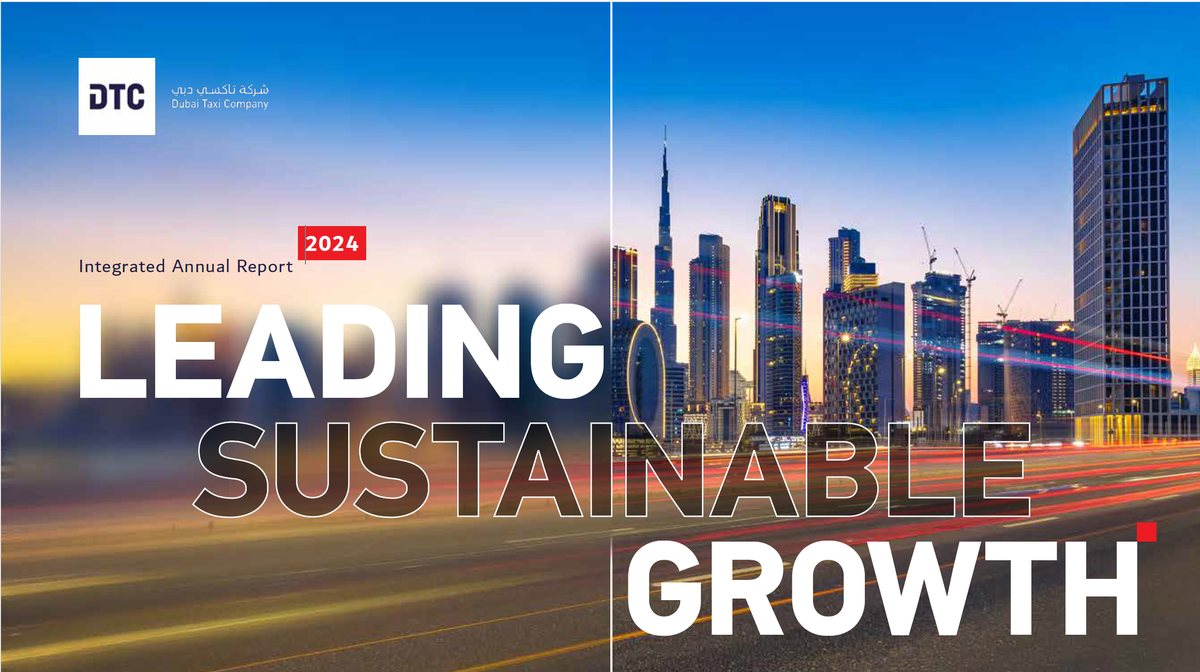
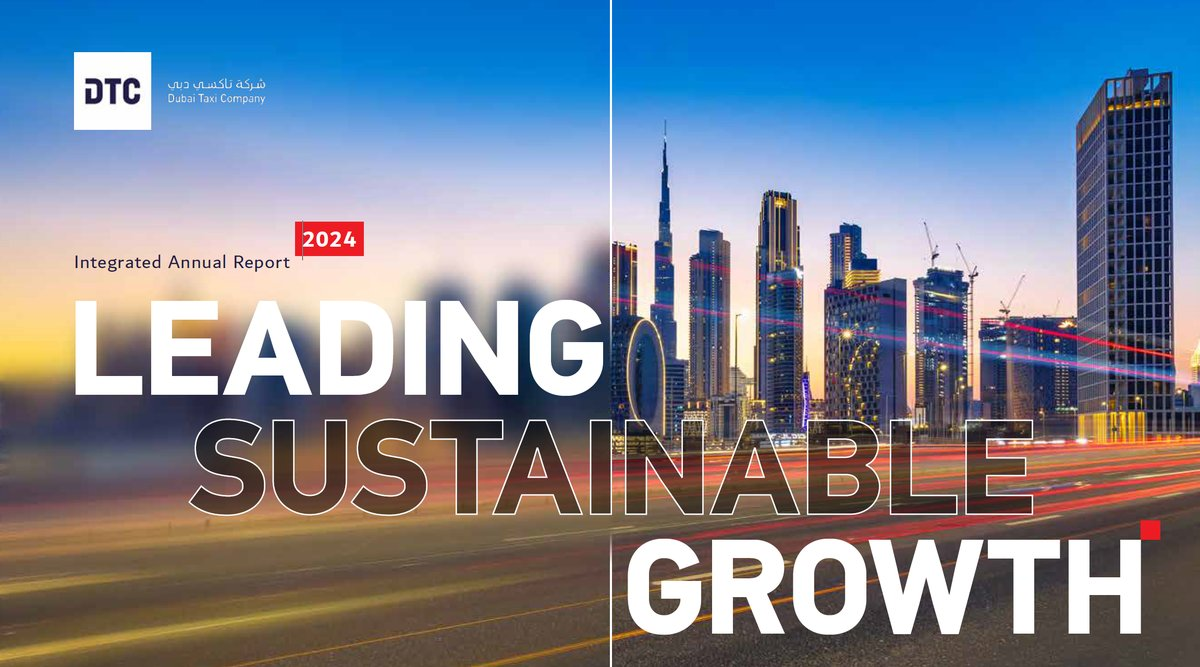
Tidy cover crops, replace examples, add custom domain
Trim borders and rounded corners from cover screenshots, replace Recent
examples with a recognised reports rail, add CNAME for frissonwriting.com.

Claude-Session: https://claude.ai/code/session_01BsDjxSa37LYHHWKHvRsRWJ

diff --git a/projects.html b/projects.html
@@ -33,7 +33,7 @@
 <button type="button" data-f="sustainability" aria-pressed="false">Sustainability reports</button>
 <button type="button" data-f="other" aria-pressed="false">Other</button>
 </div>
-<div class="grid" id="grid"><article class="card is-wide" data-kind="annual recognised"><div class="slot"><div class="frame has-img wide" style="aspect-ratio:1200/672"><img src="assets/covers/dtc-ar24.jpg" width="1200" height="672" loading="lazy" alt="Cover of the Dubai Taxi Company Annual Report 2024"></div></div><h3>Dubai Taxi Company</h3><p class="sub">Annual Report 2024<br>DFM</p><p class="role">Content development and consultancy. Delivered while at Fanda.</p><div class="awards"><span class="award ">Grand Award, ARC Awards 2025</span><span class="award ">Gold, Corporate &amp; Financial Awards 2025</span></div><a class="link" href="https://feeds.dfm.ae/documents/2025/Mar/7/73743a5a-cc45-4a22-98a8-bd352ffc6a1a/DTC%20Integrated%20Repor.pdf" target="_blank" rel="noopener">View the report<span class="sr"> for Dubai Taxi Company Annual Report 2024 (opens in a new tab)</span></a></article><article class="card" data-kind="annual recognised"><div class="frame has-img"><img src="assets/covers/oqep-ar25.jpg" width="800" height="1140" loading="lazy" alt="Cover of the OQ Exploration and Production Annual Report 2025"></div><h3>OQ Exploration and Production</h3><p class="sub">Annual Report 2025<br>MSX</p><p class="role">Content development and consultancy. Delivered while at Fanda.</p><div class="awards"><span class="award ">Grand Award, ARC Awards 2026</span></div></article><article class="card is-wide" data-kind="annual recognised"><div class="slot"><div class="frame has-img wide" style="aspect-ratio:900/502"><img src="assets/covers/dtc-ar25.jpg" width="900" height="502" loading="lazy" alt="Cover of the Dubai Taxi Company Annual Report 2025"></div></div><h3>Dubai Taxi Company</h3><p class="sub">Annual Report 2025<br>DFM</p><p class="role">Content development and consultancy. Delivered while at Fanda.</p><div class="awards"><span class="award ">Silver, ARC Awards 2026</span><span class="award short">Shortlisted, Corporate &amp; Financial Awards 2026</span></div><a class="link" href="https://ar2025.dubaitaxi.ae/en" target="_blank" rel="noopener">View the report<span class="sr"> for Dubai Taxi Company Annual Report 2025 (opens in a new tab)</span></a></article><article class="card is-wide" data-kind="annual recognised"><div class="slot"><div class="frame has-img wide" style="aspect-ratio:1200/672"><img src="assets/covers/burjeel-ar25.jpg" width="1200" height="672" loading="lazy" alt="Cover of the Burjeel Holdings Annual Report 2025"></div></div><h3>Burjeel Holdings</h3><p class="sub">Annual Report 2025<br>ADX</p><p class="role">Content development and consultancy. Delivered while at Fanda.</p><div class="awards"><span class="award short">Shortlisted, Corporate &amp; Financial Awards 2026</span></div><a class="link" href="https://burjeelholdings.com/wp-content/uploads/2026/03/BH-2025-Annual-Report-ENG.pdf" target="_blank" rel="noopener">View the report<span class="sr"> for Burjeel Holdings Annual Report 2025 (opens in a new tab)</span></a></article><article class="card" data-kind="annual"><div class="frame has-img"><img src="assets/covers/luberef-ar25.jpg" width="782" height="1119" loading="lazy" alt="Cover of the Luberef Annual Report 2025"></div><h3>Luberef</h3><p class="sub">Annual Report 2025<br>Saudi Exchange</p><p class="role">Content development and consultancy. Delivered while at Fanda.</p><a class="link" href="https://luberefapp.s3-accelerate.amazonaws.com/documents/luberef_ar2025_eng.pdf" target="_blank" rel="noopener">View the report<span class="sr"> for Luberef Annual Report 2025 (opens in a new tab)</span></a></article><article class="card" data-kind="annual"><div class="frame has-img"><img src="assets/covers/jamjoom-ar25.jpg" width="800" height="1133" loading="lazy" alt="Cover of the Jamjoom Pharma Annual Report 2025"></div><h3>Jamjoom Pharma</h3><p class="sub">Annual Report 2025<br>Saudi Exchange</p><p class="role">Content development and consultancy. Delivered while at Fanda.</p></article><article class="card" data-kind="annual"><div class="frame has-img"><img src="assets/covers/gig-ar25.jpg" width="800" height="1135" loading="lazy" alt="Cover of the Gulf Insurance Group Annual Report 2025"></div><h3>Gulf Insurance Group</h3><p class="sub">Annual Report 2025<br>Boursa Kuwait</p><p class="role">Content development and consultancy. Delivered while at Fanda.</p><a class="link" href="https://report2025.gulfinsgroup.com/" target="_blank" rel="noopener">View the report<span class="sr"> for Gulf Insurance Group Annual Report 2025 (opens in a new tab)</span></a></article><article class="card" data-kind="annual"><div class="frame"><div class="ph " style="--c:#D5C4A8"><div><b>Qatar Navigation (Milaha)</b><small>Annual Report</small></div><i>2025</i></div></div><h3>Qatar Navigation (Milaha)</h3><p class="sub">Annual Report 2025<br>Qatar Exchange</p><p class="role">Content development and consultancy. Delivered while at Fanda.</p><a class="link" href="https://www.milaha.com/sites/default/files/2026-02/Milaha-Annual-Report-2025-EN.pdf" target="_blank" rel="noopener">View the report<span class="sr"> for Qatar Navigation (Milaha) Annual Report 2025 (opens in a new tab)</span></a></article><article class="card" data-kind="annual"><div class="frame has-img"><img src="assets/covers/sadafco-ar25.jpg" width="800" height="1135" loading="lazy" alt="Cover of the SADAFCO Annual Report 2025"></div><h3>SADAFCO</h3><p class="sub">Annual Report 2025<br>Saudi Exchange</p><p class="role">Content development and consultancy. Delivered while at Fanda.</p></article><article class="card" data-kind="annual"><div class="frame"><div class="ph dark" style="--c:#6A5540"><div><b>EMSTEEL</b><small>Annual Report</small></div><i>2025</i></div></div><h3>EMSTEEL</h3><p class="sub">Annual Report 2025<br>ADX</p><p class="role">Copyediting. Delivered while at Fanda.</p></article><article class="card" data-kind="annual"><div class="frame"><div class="ph " style="--c:#C6B08E"><div><b>Gulf Navigation Holding</b><small>Annual Report</small></div><i>2025</i></div></div><h3>Gulf Navigation Holding</h3><p class="sub">Annual Report 2025<br>DFM</p><p class="role">Copyediting. Delivered while at Fanda.</p></article><article class="card" data-kind="sustainability"><div class="frame has-img"><img src="assets/covers/luberef-sr24.jpg" width="800" height="1130" loading="lazy" alt="Cover of the Luberef Sustainability Report 2024"></div><h3>Luberef</h3><p class="sub">Sustainability Report 2024<br>Saudi Exchange</p><p class="role">Content development and consultancy. Delivered while at Fanda.</p></article><article class="card" data-kind="sustainability"><div class="frame"><div class="ph " style="--c:#DDCFB8"><div><b>Maharah</b><small>Sustainability Report</small></div><i>2024</i></div></div><h3>Maharah</h3><p class="sub">Sustainability Report 2024<br>Saudi Exchange</p><p class="role">Content development and consultancy. Delivered while at Fanda.</p></article><article class="card" data-kind="annual"><div class="frame has-img"><img src="assets/covers/burjeel-ar24.jpg" width="800" height="1130" loading="lazy" alt="Cover of the Burjeel Holdings Annual Report 2024"></div><h3>Burjeel Holdings</h3><p class="sub">Annual Report 2024<br>ADX</p><p class="role">Content development and consultancy. Delivered while at Fanda.</p><a class="link" href="https://burjeelholdings.com/wp-content/uploads/2025/03/ENG-BH-Annual-Report-2024.pdf" target="_blank" rel="noopener">View the report<span class="sr"> for Burjeel Holdings Annual Report 2024 (opens in a new tab)</span></a></article><article class="card" data-kind="annual"><div class="frame has-img"><img src="assets/covers/gig-ar24.jpg" width="800" height="1119" loading="lazy" alt="Cover of the Gulf Insurance Group Annual Report 2024"></div><h3>Gulf Insurance Group</h3><p class="sub">Annual Report 2024<br>Boursa Kuwait</p><p class="role">Content development and consultancy. Delivered while at Fanda.</p><a class="link" href="https://report2024.gulfinsgroup.com/" target="_blank" rel="noopener">View the report<span class="sr"> for Gulf Insurance Group Annual Report 2024 (opens in a new tab)</span></a></article><article class="card is-wide" data-kind="annual"><div class="slot"><div class="frame has-img wide" style="aspect-ratio:1200/673"><img src="assets/covers/fixprice-ar24.jpg" width="1200" height="673" loading="lazy" alt="Cover of the Fix Price Annual Report 2024"></div></div><h3>Fix Price</h3><p class="sub">Annual Report 2024<br>MOEX and AIX</p><p class="role">Content development and consultancy. Delivered while at Fanda.</p></article><article class="card" data-kind="annual"><div class="frame"><div class="ph dark" style="--c:#6A5540"><div><b>EMSTEEL</b><small>Annual Report</small></div><i>2024</i></div></div><h3>EMSTEEL</h3><p class="sub">Annual Report 2024<br>ADX</p><p class="role">Copyediting. Delivered while at Fanda.</p><a class="link" href="https://ar2024.emsteel.com/en" target="_blank" rel="noopener">View the report<span class="sr"> for EMSTEEL Annual Report 2024 (opens in a new tab)</span></a></article><article class="card" data-kind="annual"><div class="frame has-img"><img src="assets/covers/gulfnav-ar24.jpg" width="800" height="1132" loading="lazy" alt="Cover of the Gulf Navigation Holding Annual Report 2024"></div><h3>Gulf Navigation Holding</h3><p class="sub">Annual Report 2024<br>DFM</p><p class="role">Copyediting. Delivered while at Fanda.</p><a class="link" href="https://feeds.dfm.ae/documents/2025/Mar/31/d2f310cb-cd33-449b-849a-eacda0245585/GULFNAV_EN_Integrated_Report_2024.pdf" target="_blank" rel="noopener">View the report<span class="sr"> for Gulf Navigation Holding Annual Report 2024 (opens in a new tab)</span></a></article><article class="card" data-kind="other"><div class="frame"><div class="ph dark" style="--c:#2B2118"><div><b>Gulf Insurance Group</b><small>Company Profile</small></div><i>Profile</i></div></div><h3>Gulf Insurance Group</h3><p class="sub">Company Profile<br>Boursa Kuwait</p><p class="role">Content development. Delivered while at Fanda.</p><a class="link" href="https://www.gulfinsgroup.com/media/GIG_Corporate_profile_2025_2105_2-page_view.pdf" target="_blank" rel="noopener">View the report<span class="sr"> for Gulf Insurance Group Company Profile (opens in a new tab)</span></a></article><article class="card" data-kind="sustainability"><div class="frame"><div class="ph " style="--c:#DDCFB8"><div><b>Luberef</b><small>Sustainability Report</small></div><i>2023</i></div></div><h3>Luberef</h3><p class="sub">Sustainability Report 2023<br>Saudi Exchange</p><p class="role">Content development and consultancy. Delivered while at Fanda.</p></article><article class="card" data-kind="annual"><div class="frame"><div class="ph dark" style="--c:#A88C66"><div><b>PhosAgro</b><small>Annual Report</small></div><i>2023</i></div></div><h3>PhosAgro</h3><p class="sub">Annual Report 2023</p><p class="role">Content development. Delivered while at Fanda.</p><a class="link" href="https://ar2023.phosagro.com/" target="_blank" rel="noopener">View the report<span class="sr"> for PhosAgro Annual Report 2023 (opens in a new tab)</span></a></article><article class="card" data-kind="annual"><div class="frame"><div class="ph " style="--c:#D5C4A8"><div><b>EuroChem</b><small>Annual Report</small></div><i>2023</i></div></div><h3>EuroChem</h3><p class="sub">Annual Report 2023</p><p class="role">Content development. Delivered while at Fanda.</p></article></div>
+<div class="grid" id="grid"><article class="card is-wide" data-kind="annual recognised"><div class="slot"><div class="frame has-img wide" style="aspect-ratio:1200/667"><img src="assets/covers/dtc-ar24.jpg" width="1200" height="667" loading="lazy" alt="Cover of the Dubai Taxi Company Annual Report 2024"></div></div><h3>Dubai Taxi Company</h3><p class="sub">Annual Report 2024<br>DFM</p><p class="role">Content development and consultancy. Delivered while at Fanda.</p><div class="awards"><span class="award ">Grand Award, ARC Awards 2025</span><span class="award ">Gold, Corporate &amp; Financial Awards 2025</span></div><a class="link" href="https://feeds.dfm.ae/documents/2025/Mar/7/73743a5a-cc45-4a22-98a8-bd352ffc6a1a/DTC%20Integrated%20Repor.pdf" target="_blank" rel="noopener">View the report<span class="sr"> for Dubai Taxi Company Annual Report 2024 (opens in a new tab)</span></a></article><article class="card" data-kind="annual recognised"><div class="frame has-img"><img src="assets/covers/oqep-ar25.jpg" width="800" height="1142" loading="lazy" alt="Cover of the OQ Exploration and Production Annual Report 2025"></div><h3>OQ Exploration and Production</h3><p class="sub">Annual Report 2025<br>MSX</p><p class="role">Content development and consultancy. Delivered while at Fanda.</p><div class="awards"><span class="award ">Grand Award, ARC Awards 2026</span></div></article><article class="card is-wide" data-kind="annual recognised"><div class="slot"><div class="frame has-img wide" style="aspect-ratio:900/502"><img src="assets/covers/dtc-ar25.jpg" width="900" height="502" loading="lazy" alt="Cover of the Dubai Taxi Company Annual Report 2025"></div></div><h3>Dubai Taxi Company</h3><p class="sub">Annual Report 2025<br>DFM</p><p class="role">Content development and consultancy. Delivered while at Fanda.</p><div class="awards"><span class="award ">Silver, ARC Awards 2026</span><span class="award short">Shortlisted, Corporate &amp; Financial Awards 2026</span></div><a class="link" href="https://ar2025.dubaitaxi.ae/en" target="_blank" rel="noopener">View the report<span class="sr"> for Dubai Taxi Company Annual Report 2025 (opens in a new tab)</span></a></article><article class="card is-wide" data-kind="annual recognised"><div class="slot"><div class="frame has-img wide" style="aspect-ratio:1200/666"><img src="assets/covers/burjeel-ar25.jpg" width="1200" height="666" loading="lazy" alt="Cover of the Burjeel Holdings Annual Report 2025"></div></div><h3>Burjeel Holdings</h3><p class="sub">Annual Report 2025<br>ADX</p><p class="role">Content development and consultancy. Delivered while at Fanda.</p><div class="awards"><span class="award short">Shortlisted, Corporate &amp; Financial Awards 2026</span></div><a class="link" href="https://burjeelholdings.com/wp-content/uploads/2026/03/BH-2025-Annual-Report-ENG.pdf" target="_blank" rel="noopener">View the report<span class="sr"> for Burjeel Holdings Annual Report 2025 (opens in a new tab)</span></a></article><article class="card" data-kind="annual"><div class="frame has-img"><img src="assets/covers/luberef-ar25.jpg" width="800" height="1163" loading="lazy" alt="Cover of the Luberef Annual Report 2025"></div><h3>Luberef</h3><p class="sub">Annual Report 2025<br>Saudi Exchange</p><p class="role">Content development and consultancy. Delivered while at Fanda.</p><a class="link" href="https://luberefapp.s3-accelerate.amazonaws.com/documents/luberef_ar2025_eng.pdf" target="_blank" rel="noopener">View the report<span class="sr"> for Luberef Annual Report 2025 (opens in a new tab)</span></a></article><article class="card" data-kind="annual"><div class="frame has-img"><img src="assets/covers/jamjoom-ar25.jpg" width="800" height="1137" loading="lazy" alt="Cover of the Jamjoom Pharma Annual Report 2025"></div><h3>Jamjoom Pharma</h3><p class="sub">Annual Report 2025<br>Saudi Exchange</p><p class="role">Content development and consultancy. Delivered while at Fanda.</p></article><article class="card" data-kind="annual"><div class="frame has-img"><img src="assets/covers/gig-ar25.jpg" width="800" height="1138" loading="lazy" alt="Cover of the Gulf Insurance Group Annual Report 2025"></div><h3>Gulf Insurance Group</h3><p class="sub">Annual Report 2025<br>Boursa Kuwait</p><p class="role">Content development and consultancy. Delivered while at Fanda.</p><a class="link" href="https://report2025.gulfinsgroup.com/" target="_blank" rel="noopener">View the report<span class="sr"> for Gulf Insurance Group Annual Report 2025 (opens in a new tab)</span></a></article><article class="card" data-kind="annual"><div class="frame"><div class="ph " style="--c:#D5C4A8"><div><b>Qatar Navigation (Milaha)</b><small>Annual Report</small></div><i>2025</i></div></div><h3>Qatar Navigation (Milaha)</h3><p class="sub">Annual Report 2025<br>Qatar Exchange</p><p class="role">Content development and consultancy. Delivered while at Fanda.</p><a class="link" href="https://www.milaha.com/sites/default/files/2026-02/Milaha-Annual-Report-2025-EN.pdf" target="_blank" rel="noopener">View the report<span class="sr"> for Qatar Navigation (Milaha) Annual Report 2025 (opens in a new tab)</span></a></article><article class="card" data-kind="annual"><div class="frame has-img"><img src="assets/covers/sadafco-ar25.jpg" width="800" height="1137" loading="lazy" alt="Cover of the SADAFCO Annual Report 2025"></div><h3>SADAFCO</h3><p class="sub">Annual Report 2025<br>Saudi Exchange</p><p class="role">Content development and consultancy. Delivered while at Fanda.</p></article><article class="card" data-kind="annual"><div class="frame"><div class="ph dark" style="--c:#6A5540"><div><b>EMSTEEL</b><small>Annual Report</small></div><i>2025</i></div></div><h3>EMSTEEL</h3><p class="sub">Annual Report 2025<br>ADX</p><p class="role">Copyediting. Delivered while at Fanda.</p></article><article class="card" data-kind="annual"><div class="frame"><div class="ph " style="--c:#C6B08E"><div><b>Gulf Navigation Holding</b><small>Annual Report</small></div><i>2025</i></div></div><h3>Gulf Navigation Holding</h3><p class="sub">Annual Report 2025<br>DFM</p><p class="role">Copyediting. Delivered while at Fanda.</p></article><article class="card" data-kind="sustainability"><div class="frame has-img"><img src="assets/covers/luberef-sr24.jpg" width="800" height="1134" loading="lazy" alt="Cover of the Luberef Sustainability Report 2024"></div><h3>Luberef</h3><p class="sub">Sustainability Report 2024<br>Saudi Exchange</p><p class="role">Content development and consultancy. Delivered while at Fanda.</p></article><article class="card" data-kind="sustainability"><div class="frame"><div class="ph " style="--c:#DDCFB8"><div><b>Maharah</b><small>Sustainability Report</small></div><i>2024</i></div></div><h3>Maharah</h3><p class="sub">Sustainability Report 2024<br>Saudi Exchange</p><p class="role">Content development and consultancy. Delivered while at Fanda.</p></article><article class="card" data-kind="annual"><div class="frame has-img"><img src="assets/covers/burjeel-ar24.jpg" width="800" height="1134" loading="lazy" alt="Cover of the Burjeel Holdings Annual Report 2024"></div><h3>Burjeel Holdings</h3><p class="sub">Annual Report 2024<br>ADX</p><p class="role">Content development and consultancy. Delivered while at Fanda.</p><a class="link" href="https://burjeelholdings.com/wp-content/uploads/2025/03/ENG-BH-Annual-Report-2024.pdf" target="_blank" rel="noopener">View the report<span class="sr"> for Burjeel Holdings Annual Report 2024 (opens in a new tab)</span></a></article><article class="card" data-kind="annual"><div class="frame has-img"><img src="assets/covers/gig-ar24.jpg" width="800" height="1122" loading="lazy" alt="Cover of the Gulf Insurance Group Annual Report 2024"></div><h3>Gulf Insurance Group</h3><p class="sub">Annual Report 2024<br>Boursa Kuwait</p><p class="role">Content development and consultancy. Delivered while at Fanda.</p><a class="link" href="https://report2024.gulfinsgroup.com/" target="_blank" rel="noopener">View the report<span class="sr"> for Gulf Insurance Group Annual Report 2024 (opens in a new tab)</span></a></article><article class="card is-wide" data-kind="annual"><div class="slot"><div class="frame has-img wide" style="aspect-ratio:1200/669"><img src="assets/covers/fixprice-ar24.jpg" width="1200" height="669" loading="lazy" alt="Cover of the Fix Price Annual Report 2024"></div></div><h3>Fix Price</h3><p class="sub">Annual Report 2024<br>MOEX and AIX</p><p class="role">Content development and consultancy. Delivered while at Fanda.</p></article><article class="card" data-kind="annual"><div class="frame"><div class="ph dark" style="--c:#6A5540"><div><b>EMSTEEL</b><small>Annual Report</small></div><i>2024</i></div></div><h3>EMSTEEL</h3><p class="sub">Annual Report 2024<br>ADX</p><p class="role">Copyediting. Delivered while at Fanda.</p><a class="link" href="https://ar2024.emsteel.com/en" target="_blank" rel="noopener">View the report<span class="sr"> for EMSTEEL Annual Report 2024 (opens in a new tab)</span></a></article><article class="card" data-kind="annual"><div class="frame has-img"><img src="assets/covers/gulfnav-ar24.jpg" width="800" height="1132" loading="lazy" alt="Cover of the Gulf Navigation Holding Annual Report 2024"></div><h3>Gulf Navigation Holding</h3><p class="sub">Annual Report 2024<br>DFM</p><p class="role">Copyediting. Delivered while at Fanda.</p><a class="link" href="https://feeds.dfm.ae/documents/2025/Mar/31/d2f310cb-cd33-449b-849a-eacda0245585/GULFNAV_EN_Integrated_Report_2024.pdf" target="_blank" rel="noopener">View the report<span class="sr"> for Gulf Navigation Holding Annual Report 2024 (opens in a new tab)</span></a></article><article class="card" data-kind="other"><div class="frame"><div class="ph dark" style="--c:#2B2118"><div><b>Gulf Insurance Group</b><small>Company Profile</small></div><i>Profile</i></div></div><h3>Gulf Insurance Group</h3><p class="sub">Company Profile<br>Boursa Kuwait</p><p class="role">Content development. Delivered while at Fanda.</p><a class="link" href="https://www.gulfinsgroup.com/media/GIG_Corporate_profile_2025_2105_2-page_view.pdf" target="_blank" rel="noopener">View the report<span class="sr"> for Gulf Insurance Group Company Profile (opens in a new tab)</span></a></article><article class="card" data-kind="sustainability"><div class="frame"><div class="ph " style="--c:#DDCFB8"><div><b>Luberef</b><small>Sustainability Report</small></div><i>2023</i></div></div><h3>Luberef</h3><p class="sub">Sustainability Report 2023<br>Saudi Exchange</p><p class="role">Content development and consultancy. Delivered while at Fanda.</p></article><article class="card" data-kind="annual"><div class="frame"><div class="ph dark" style="--c:#A88C66"><div><b>PhosAgro</b><small>Annual Report</small></div><i>2023</i></div></div><h3>PhosAgro</h3><p class="sub">Annual Report 2023</p><p class="role">Content development. Delivered while at Fanda.</p><a class="link" href="https://ar2023.phosagro.com/" target="_blank" rel="noopener">View the report<span class="sr"> for PhosAgro Annual Report 2023 (opens in a new tab)</span></a></article><article class="card" data-kind="annual"><div class="frame"><div class="ph " style="--c:#D5C4A8"><div><b>EuroChem</b><small>Annual Report</small></div><i>2023</i></div></div><h3>EuroChem</h3><p class="sub">Annual Report 2023</p><p class="role">Content development. Delivered while at Fanda.</p></article></div>
 <p class="disclaimer">All reports are published by the companies named, and the cover designs belong to them and their agencies. Mikhail Seleznev contributed to these reports in the role stated while at Fanda, before founding Frisson Writing. Awards were given to the reports and the teams that produced them.</p>
 </div></section>
 <script>

diff --git a/index.html b/index.html
@@ -27,7 +27,7 @@
 <p class="lede">Frisson Writing develops the content of annual, sustainability, integrated and governance reports for listed companies across the Gulf, from structure and interviews to the final draft.</p>
 <div class="actions"><a class="btn solid" href="projects.html">View projects</a><a class="btn ghost" href="contact.html">Get in touch</a></div>
 </div>
-<div class="fan" aria-hidden="true"><div class="frame has-img"><img src="assets/covers/luberef-ar25.jpg" width="782" height="1119" alt="Cover of the Luberef Annual Report 2025"></div><div class="frame has-img"><img src="assets/covers/oqep-ar25.jpg" width="800" height="1140" alt="Cover of the OQ Exploration and Production Annual Report 2025"></div><div class="frame has-img"><img src="assets/covers/gig-ar25.jpg" width="800" height="1135" alt="Cover of the Gulf Insurance Group Annual Report 2025"></div></div>
+<div class="fan" aria-hidden="true"><div class="frame has-img"><img src="assets/covers/luberef-ar25.jpg" width="800" height="1163" alt="Cover of the Luberef Annual Report 2025"></div><div class="frame has-img"><img src="assets/covers/oqep-ar25.jpg" width="800" height="1142" alt="Cover of the OQ Exploration and Production Annual Report 2025"></div><div class="frame has-img"><img src="assets/covers/gig-ar25.jpg" width="800" height="1138" alt="Cover of the Gulf Insurance Group Annual Report 2025"></div></div>
 </div></section>
 
 <div class="recog"><div class="wrap">
@@ -40,7 +40,7 @@
 
 <section><div class="wrap">
 <div class="sec-head"><div><h2>Selected projects</h2><p class="intro">Reports for companies listed on the Saudi Exchange, DFM, ADX, Boursa Kuwait, MSX and Qatar Exchange.</p></div><a class="more" href="projects.html">All 22 projects</a></div>
-<div class="rail" tabindex="0" aria-label="Selected projects, scroll sideways"><article class="card is-wide" data-kind="annual recognised"><div class="slot"><div class="frame has-img wide" style="aspect-ratio:1200/672"><img src="assets/covers/dtc-ar24.jpg" width="1200" height="672" loading="lazy" alt="Cover of the Dubai Taxi Company Annual Report 2024"></div></div><h3>Dubai Taxi Company</h3><p class="sub">Annual Report 2024<br>DFM</p><p class="role">Content development and consultancy. Delivered while at Fanda.</p><div class="awards"><span class="award ">Grand Award, ARC Awards 2025</span><span class="award ">Gold, Corporate &amp; Financial Awards 2025</span></div><a class="link" href="https://feeds.dfm.ae/documents/2025/Mar/7/73743a5a-cc45-4a22-98a8-bd352ffc6a1a/DTC%20Integrated%20Repor.pdf" target="_blank" rel="noopener">View the report<span class="sr"> for Dubai Taxi Company Annual Report 2024 (opens in a new tab)</span></a></article><article class="card" data-kind="annual recognised"><div class="frame has-img"><img src="assets/covers/oqep-ar25.jpg" width="800" height="1140" loading="lazy" alt="Cover of the OQ Exploration and Production Annual Report 2025"></div><h3>OQ Exploration and Production</h3><p class="sub">Annual Report 2025<br>MSX</p><p class="role">Content development and consultancy. Delivered while at Fanda.</p><div class="awards"><span class="award ">Grand Award, ARC Awards 2026</span></div></article><article class="card is-wide" data-kind="annual recognised"><div class="slot"><div class="frame has-img wide" style="aspect-ratio:900/502"><img src="assets/covers/dtc-ar25.jpg" width="900" height="502" loading="lazy" alt="Cover of the Dubai Taxi Company Annual Report 2025"></div></div><h3>Dubai Taxi Company</h3><p class="sub">Annual Report 2025<br>DFM</p><p class="role">Content development and consultancy. Delivered while at Fanda.</p><div class="awards"><span class="award ">Silver, ARC Awards 2026</span><span class="award short">Shortlisted, Corporate &amp; Financial Awards 2026</span></div><a class="link" href="https://ar2025.dubaitaxi.ae/en" target="_blank" rel="noopener">View the report<span class="sr"> for Dubai Taxi Company Annual Report 2025 (opens in a new tab)</span></a></article><article class="card is-wide" data-kind="annual recognised"><div class="slot"><div class="frame has-img wide" style="aspect-ratio:1200/672"><img src="assets/covers/burjeel-ar25.jpg" width="1200" height="672" loading="lazy" alt="Cover of the Burjeel Holdings Annual Report 2025"></div></div><h3>Burjeel Holdings</h3><p class="sub">Annual Report 2025<br>ADX</p><p class="role">Content development and consultancy. Delivered while at Fanda.</p><div class="awards"><span class="award short">Shortlisted, Corporate &amp; Financial Awards 2026</span></div><a class="link" href="https://burjeelholdings.com/wp-content/uploads/2026/03/BH-2025-Annual-Report-ENG.pdf" target="_blank" rel="noopener">View the report<span class="sr"> for Burjeel Holdings Annual Report 2025 (opens in a new tab)</span></a></article><article class="card" data-kind="annual"><div class="frame has-img"><img src="assets/covers/luberef-ar25.jpg" width="782" height="1119" loading="lazy" alt="Cover of the Luberef Annual Report 2025"></div><h3>Luberef</h3><p class="sub">Annual Report 2025<br>Saudi Exchange</p><p class="role">Content development and consultancy. Delivered while at Fanda.</p><a class="link" href="https://luberefapp.s3-accelerate.amazonaws.com/documents/luberef_ar2025_eng.pdf" target="_blank" rel="noopener">View the report<span class="sr"> for Luberef Annual Report 2025 (opens in a new tab)</span></a></article><article class="card" data-kind="annual"><div class="frame has-img"><img src="assets/covers/jamjoom-ar25.jpg" width="800" height="1133" loading="lazy" alt="Cover of the Jamjoom Pharma Annual Report 2025"></div><h3>Jamjoom Pharma</h3><p class="sub">Annual Report 2025<br>Saudi Exchange</p><p class="role">Content development and consultancy. Delivered while at Fanda.</p></article><article class="card" data-kind="annual"><div class="frame has-img"><img src="assets/covers/gig-ar25.jpg" width="800" height="1135" loading="lazy" alt="Cover of the Gulf Insurance Group Annual Report 2025"></div><h3>Gulf Insurance Group</h3><p class="sub">Annual Report 2025<br>Boursa Kuwait</p><p class="role">Content development and consultancy. Delivered while at Fanda.</p><a class="link" href="https://report2025.gulfinsgroup.com/" target="_blank" rel="noopener">View the report<span class="sr"> for Gulf Insurance Group Annual Report 2025 (opens in a new tab)</span></a></article><article class="card" data-kind="annual"><div class="frame"><div class="ph " style="--c:#D5C4A8"><div><b>Qatar Navigation (Milaha)</b><small>Annual Report</small></div><i>2025</i></div></div><h3>Qatar Navigation (Milaha)</h3><p class="sub">Annual Report 2025<br>Qatar Exchange</p><p class="role">Content development and consultancy. Delivered while at Fanda.</p><a class="link" href="https://www.milaha.com/sites/default/files/2026-02/Milaha-Annual-Report-2025-EN.pdf" target="_blank" rel="noopener">View the report<span class="sr"> for Qatar Navigation (Milaha) Annual Report 2025 (opens in a new tab)</span></a></article></div>
+<div class="rail" tabindex="0" aria-label="Selected projects, scroll sideways"><article class="card is-wide" data-kind="annual recognised"><div class="slot"><div class="frame has-img wide" style="aspect-ratio:1200/667"><img src="assets/covers/dtc-ar24.jpg" width="1200" height="667" loading="lazy" alt="Cover of the Dubai Taxi Company Annual Report 2024"></div></div><h3>Dubai Taxi Company</h3><p class="sub">Annual Report 2024<br>DFM</p><p class="role">Content development and consultancy. Delivered while at Fanda.</p><div class="awards"><span class="award ">Grand Award, ARC Awards 2025</span><span class="award ">Gold, Corporate &amp; Financial Awards 2025</span></div><a class="link" href="https://feeds.dfm.ae/documents/2025/Mar/7/73743a5a-cc45-4a22-98a8-bd352ffc6a1a/DTC%20Integrated%20Repor.pdf" target="_blank" rel="noopener">View the report<span class="sr"> for Dubai Taxi Company Annual Report 2024 (opens in a new tab)</span></a></article><article class="card" data-kind="annual recognised"><div class="frame has-img"><img src="assets/covers/oqep-ar25.jpg" width="800" height="1142" loading="lazy" alt="Cover of the OQ Exploration and Production Annual Report 2025"></div><h3>OQ Exploration and Production</h3><p class="sub">Annual Report 2025<br>MSX</p><p class="role">Content development and consultancy. Delivered while at Fanda.</p><div class="awards"><span class="award ">Grand Award, ARC Awards 2026</span></div></article><article class="card is-wide" data-kind="annual recognised"><div class="slot"><div class="frame has-img wide" style="aspect-ratio:900/502"><img src="assets/covers/dtc-ar25.jpg" width="900" height="502" loading="lazy" alt="Cover of the Dubai Taxi Company Annual Report 2025"></div></div><h3>Dubai Taxi Company</h3><p class="sub">Annual Report 2025<br>DFM</p><p class="role">Content development and consultancy. Delivered while at Fanda.</p><div class="awards"><span class="award ">Silver, ARC Awards 2026</span><span class="award short">Shortlisted, Corporate &amp; Financial Awards 2026</span></div><a class="link" href="https://ar2025.dubaitaxi.ae/en" target="_blank" rel="noopener">View the report<span class="sr"> for Dubai Taxi Company Annual Report 2025 (opens in a new tab)</span></a></article><article class="card is-wide" data-kind="annual recognised"><div class="slot"><div class="frame has-img wide" style="aspect-ratio:1200/666"><img src="assets/covers/burjeel-ar25.jpg" width="1200" height="666" loading="lazy" alt="Cover of the Burjeel Holdings Annual Report 2025"></div></div><h3>Burjeel Holdings</h3><p class="sub">Annual Report 2025<br>ADX</p><p class="role">Content development and consultancy. Delivered while at Fanda.</p><div class="awards"><span class="award short">Shortlisted, Corporate &amp; Financial Awards 2026</span></div><a class="link" href="https://burjeelholdings.com/wp-content/uploads/2026/03/BH-2025-Annual-Report-ENG.pdf" target="_blank" rel="noopener">View the report<span class="sr"> for Burjeel Holdings Annual Report 2025 (opens in a new tab)</span></a></article><article class="card" data-kind="annual"><div class="frame has-img"><img src="assets/covers/luberef-ar25.jpg" width="800" height="1163" loading="lazy" alt="Cover of the Luberef Annual Report 2025"></div><h3>Luberef</h3><p class="sub">Annual Report 2025<br>Saudi Exchange</p><p class="role">Content development and consultancy. Delivered while at Fanda.</p><a class="link" href="https://luberefapp.s3-accelerate.amazonaws.com/documents/luberef_ar2025_eng.pdf" target="_blank" rel="noopener">View the report<span class="sr"> for Luberef Annual Report 2025 (opens in a new tab)</span></a></article><article class="card" data-kind="annual"><div class="frame has-img"><img src="assets/covers/jamjoom-ar25.jpg" width="800" height="1137" loading="lazy" alt="Cover of the Jamjoom Pharma Annual Report 2025"></div><h3>Jamjoom Pharma</h3><p class="sub">Annual Report 2025<br>Saudi Exchange</p><p class="role">Content development and consultancy. Delivered while at Fanda.</p></article><article class="card" data-kind="annual"><div class="frame has-img"><img src="assets/covers/gig-ar25.jpg" width="800" height="1138" loading="lazy" alt="Cover of the Gulf Insurance Group Annual Report 2025"></div><h3>Gulf Insurance Group</h3><p class="sub">Annual Report 2025<br>Boursa Kuwait</p><p class="role">Content development and consultancy. Delivered while at Fanda.</p><a class="link" href="https://report2025.gulfinsgroup.com/" target="_blank" rel="noopener">View the report<span class="sr"> for Gulf Insurance Group Annual Report 2025 (opens in a new tab)</span></a></article><article class="card" data-kind="annual"><div class="frame"><div class="ph " style="--c:#D5C4A8"><div><b>Qatar Navigation (Milaha)</b><small>Annual Report</small></div><i>2025</i></div></div><h3>Qatar Navigation (Milaha)</h3><p class="sub">Annual Report 2025<br>Qatar Exchange</p><p class="role">Content development and consultancy. Delivered while at Fanda.</p><a class="link" href="https://www.milaha.com/sites/default/files/2026-02/Milaha-Annual-Report-2025-EN.pdf" target="_blank" rel="noopener">View the report<span class="sr"> for Qatar Navigation (Milaha) Annual Report 2025 (opens in a new tab)</span></a></article></div>
 </div></section>
 
 <section class="sec-paper"><div class="wrap split">

diff --git a/approach.html b/approach.html
@@ -31,12 +31,8 @@
 </div></section>
 
 <section><div class="wrap">
-<div class="sec-head"><h2>Recent examples</h2></div>
-<ul class="examples">
-<li><span class="when">9 working days</span><h3>Full report rewrite</h3><p>A complete structural rewrite of an annual report for one of the largest MSX-listed companies, from kick-off to full draft.</p></li>
-<li><span class="when">11 working days</span><h3>Project taken over mid-way</h3><p>An annual report for a Saudi Exchange-listed pharmaceutical company, taken over mid-project and carried through to final draft.</p></li>
-<li><span class="when">48 hours</span><h3>Leadership statements</h3><p>Chairman and CEO statements for an MSX-listed energy company, drafted within two days of the CEO interview.</p></li>
-</ul>
+<div class="sec-head"><div><h2>Recognised reports</h2><p class="intro">Award-winning and shortlisted reports that Mikhail Seleznev contributed to.</p></div><a class="more" href="projects.html">All projects</a></div>
+<div class="rail" tabindex="0" aria-label="Recognised reports, scroll sideways"><article class="card is-wide" data-kind="annual recognised"><div class="slot"><div class="frame has-img wide" style="aspect-ratio:1200/667"><img src="assets/covers/dtc-ar24.jpg" width="1200" height="667" loading="lazy" alt="Cover of the Dubai Taxi Company Annual Report 2024"></div></div><h3>Dubai Taxi Company</h3><p class="sub">Annual Report 2024<br>DFM</p><p class="role">Content development and consultancy. Delivered while at Fanda.</p><div class="awards"><span class="award ">Grand Award, ARC Awards 2025</span><span class="award ">Gold, Corporate &amp; Financial Awards 2025</span></div><a class="link" href="https://feeds.dfm.ae/documents/2025/Mar/7/73743a5a-cc45-4a22-98a8-bd352ffc6a1a/DTC%20Integrated%20Repor.pdf" target="_blank" rel="noopener">View the report<span class="sr"> for Dubai Taxi Company Annual Report 2024 (opens in a new tab)</span></a></article><article class="card" data-kind="annual recognised"><div class="frame has-img"><img src="assets/covers/oqep-ar25.jpg" width="800" height="1142" loading="lazy" alt="Cover of the OQ Exploration and Production Annual Report 2025"></div><h3>OQ Exploration and Production</h3><p class="sub">Annual Report 2025<br>MSX</p><p class="role">Content development and consultancy. Delivered while at Fanda.</p><div class="awards"><span class="award ">Grand Award, ARC Awards 2026</span></div></article><article class="card is-wide" data-kind="annual recognised"><div class="slot"><div class="frame has-img wide" style="aspect-ratio:900/502"><img src="assets/covers/dtc-ar25.jpg" width="900" height="502" loading="lazy" alt="Cover of the Dubai Taxi Company Annual Report 2025"></div></div><h3>Dubai Taxi Company</h3><p class="sub">Annual Report 2025<br>DFM</p><p class="role">Content development and consultancy. Delivered while at Fanda.</p><div class="awards"><span class="award ">Silver, ARC Awards 2026</span><span class="award short">Shortlisted, Corporate &amp; Financial Awards 2026</span></div><a class="link" href="https://ar2025.dubaitaxi.ae/en" target="_blank" rel="noopener">View the report<span class="sr"> for Dubai Taxi Company Annual Report 2025 (opens in a new tab)</span></a></article><article class="card is-wide" data-kind="annual recognised"><div class="slot"><div class="frame has-img wide" style="aspect-ratio:1200/666"><img src="assets/covers/burjeel-ar25.jpg" width="1200" height="666" loading="lazy" alt="Cover of the Burjeel Holdings Annual Report 2025"></div></div><h3>Burjeel Holdings</h3><p class="sub">Annual Report 2025<br>ADX</p><p class="role">Content development and consultancy. Delivered while at Fanda.</p><div class="awards"><span class="award short">Shortlisted, Corporate &amp; Financial Awards 2026</span></div><a class="link" href="https://burjeelholdings.com/wp-content/uploads/2026/03/BH-2025-Annual-Report-ENG.pdf" target="_blank" rel="noopener">View the report<span class="sr"> for Burjeel Holdings Annual Report 2025 (opens in a new tab)</span></a></article></div>
 </div></section>
 
 <section class="sec-oat"><div class="wrap split">

diff --git a/tools/build.py b/tools/build.py
@@ -310,12 +310,8 @@ approach = f"""<section class="hero"><div class="wrap" style="grid-template-colu
 </div></section>
 
 <section><div class="wrap">
-<div class="sec-head"><h2>Recent examples</h2></div>
-<ul class="examples">
-<li><span class="when">9 working days</span><h3>Full report rewrite</h3><p>A complete structural rewrite of an annual report for one of the largest MSX-listed companies, from kick-off to full draft.</p></li>
-<li><span class="when">11 working days</span><h3>Project taken over mid-way</h3><p>An annual report for a Saudi Exchange-listed pharmaceutical company, taken over mid-project and carried through to final draft.</p></li>
-<li><span class="when">48 hours</span><h3>Leadership statements</h3><p>Chairman and CEO statements for an MSX-listed energy company, drafted within two days of the CEO interview.</p></li>
-</ul>
+<div class="sec-head"><div><h2>Recognised reports</h2><p class="intro">Award-winning and shortlisted reports that Mikhail Seleznev contributed to.</p></div><a class="more" href="projects.html">All projects</a></div>
+<div class="rail" tabindex="0" aria-label="Recognised reports, scroll sideways">{"".join(card(p, i) for i, p in enumerate(PROJECTS) if p[7])}</div>
 </div></section>
 
 <section class="sec-oat"><div class="wrap split">
